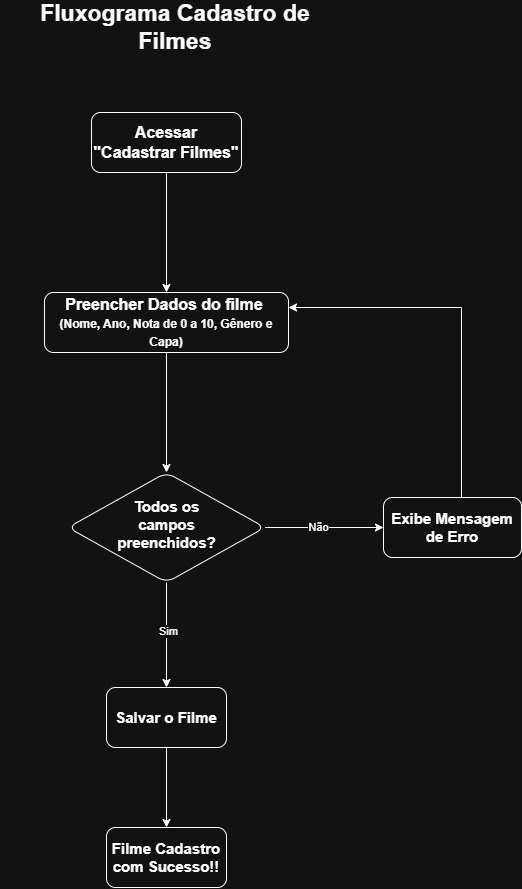
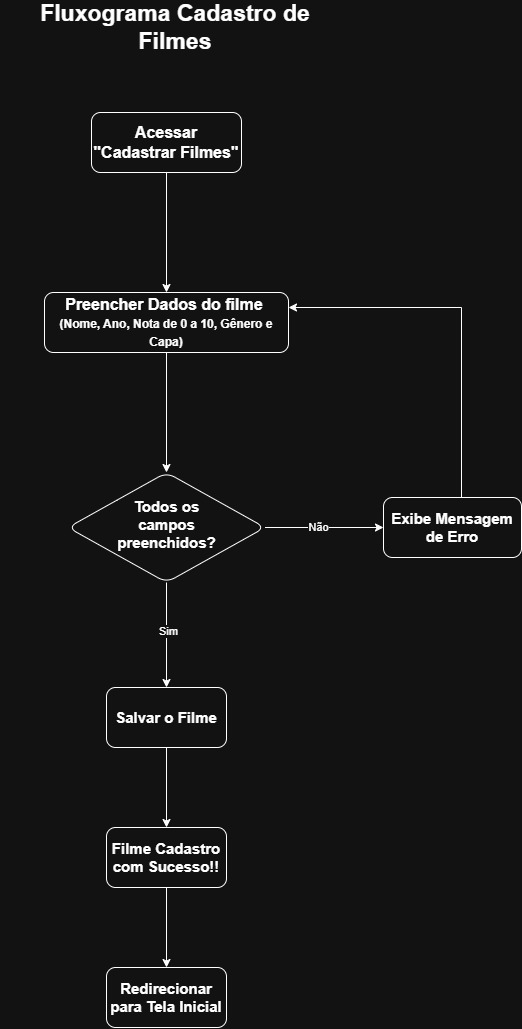
nova mensagem

diff --git a/README.md b/README.md
@@ -61,18 +61,17 @@ O **Catálogo Pessoal de Filmes** será um sistema para ajudar o usuário a orga
 
 **RN06**: A coleção de filmes deve ser de uso pessoal, não sendo compartilhada com outros usuários nesta versão do sistema.
 
-<<<<<<< HEAD
-
-=======
->>>>>>> 60e89918bdb67f291e83345d80b89e2a16e4a131
-## Visão Geral (Diagrama)
+## Visão Geral (Fluxograma)
 ![](diagrama-catalogo.png)
 
-## Visão Página de Login (Diagrama)
-![](login.jpg)
-<<<<<<< HEAD
+## Visão Página de Login (Fluxograma)
+![](login.png)
 
-## Visão Cadastro de Filmes (Diagrama)
+## Visão Cadastro de Filmes (Fluxograma)
 ![](cadastro-filme.jpg)
-=======
->>>>>>> 60e89918bdb67f291e83345d80b89e2a16e4a131
+
+## Visão Edição de Filmes (Fluxograma)
+![](edicao-filmes.jpg)
+
+## Visão Remover Filmes (Fluxograma)
+![](remover-filme.jpg)
